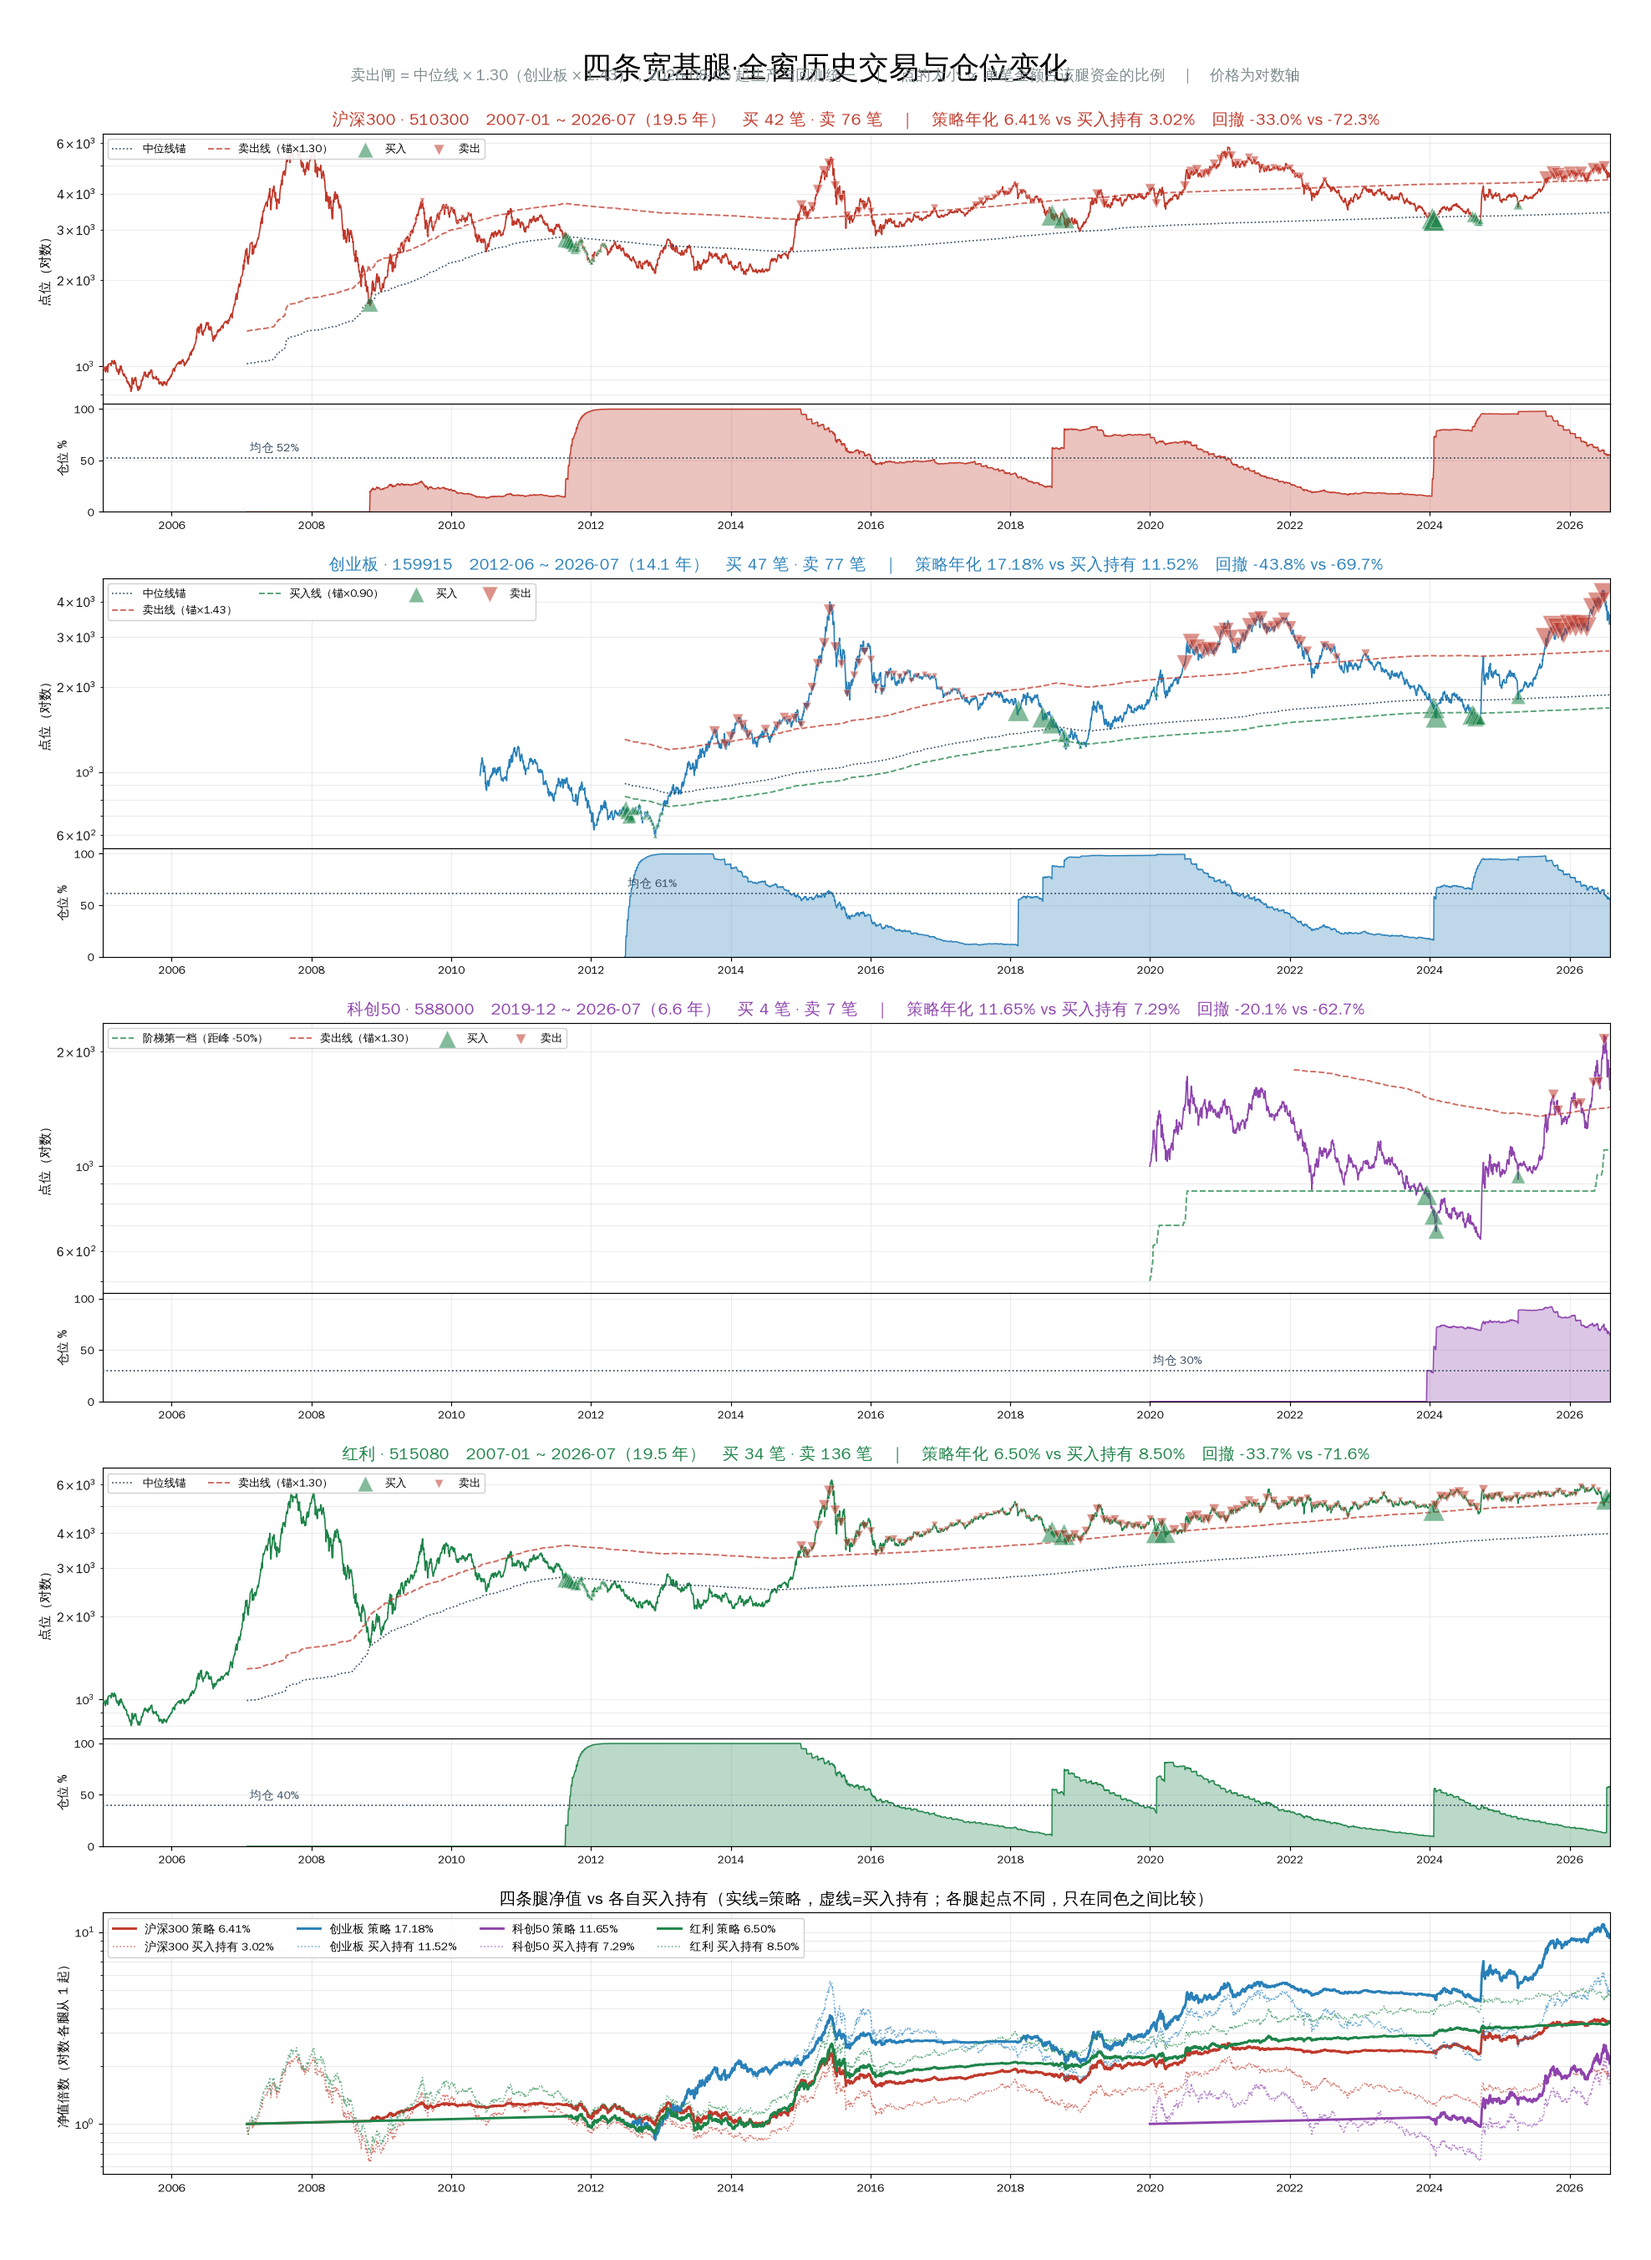
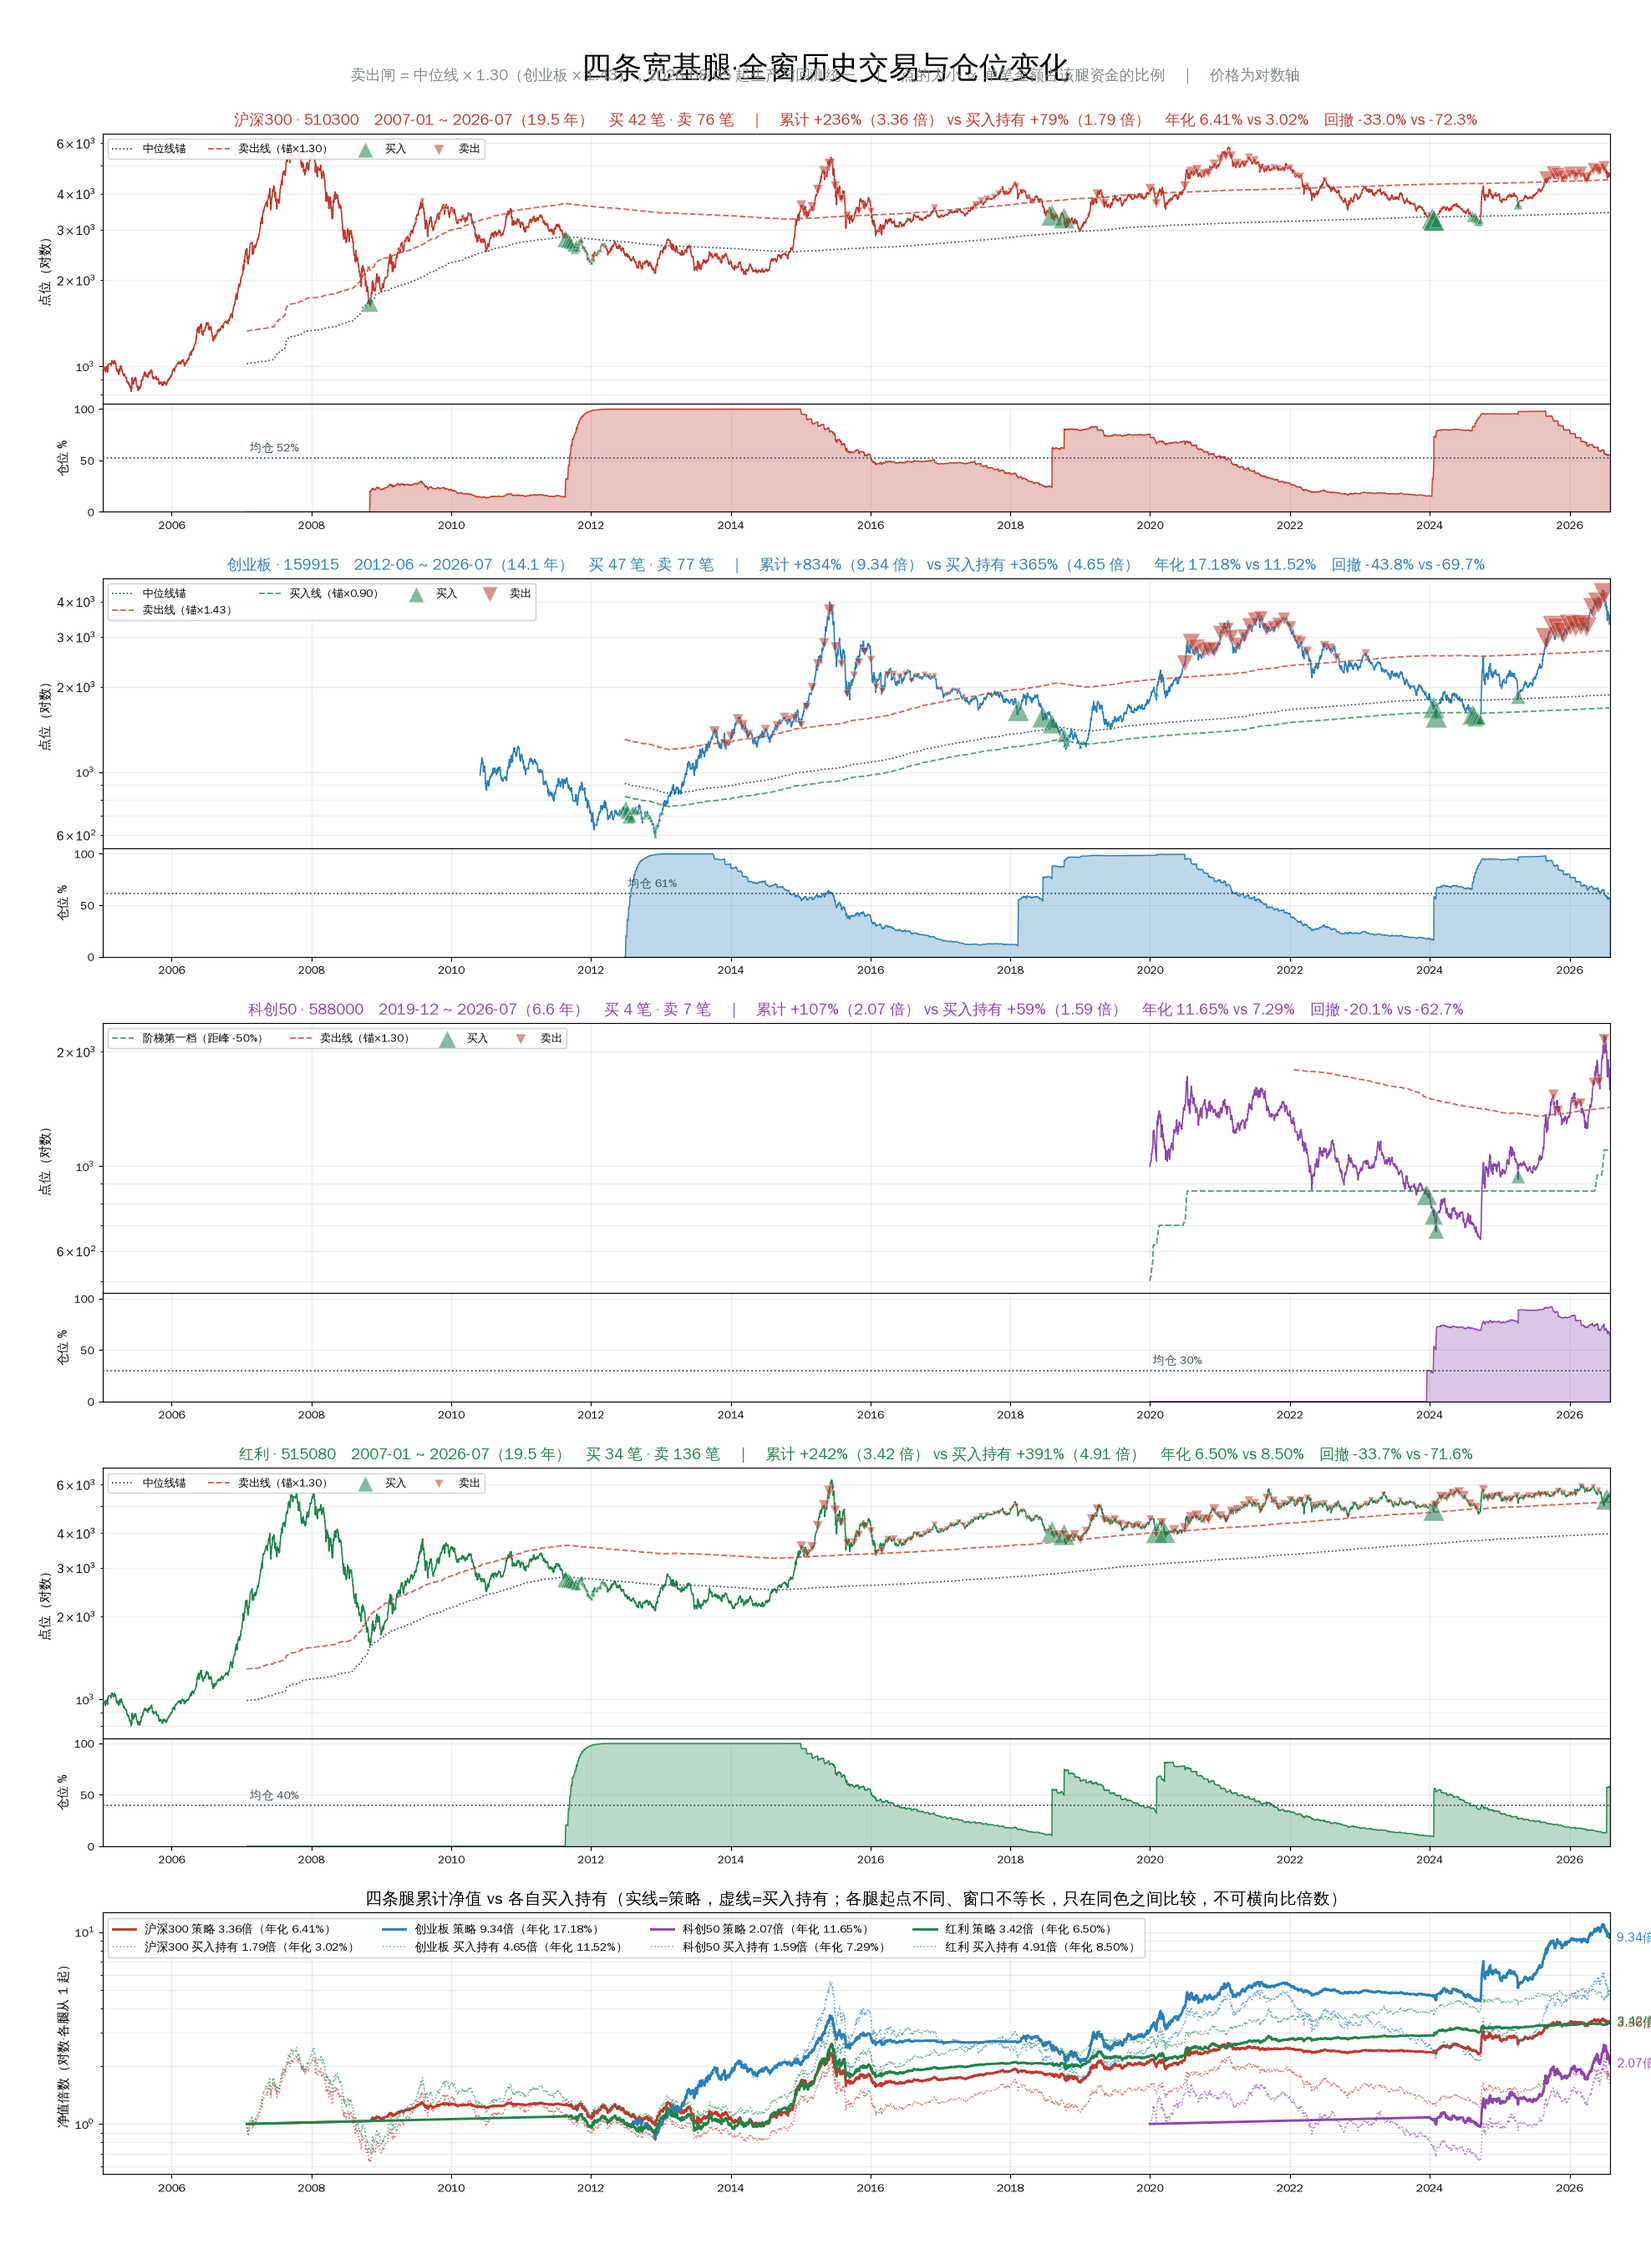
图表: 历史交易图补累计收益（owner 指出只给了年化）
年化 6.41% 和「19.5 年翻了几倍」对拿钱的人不是一回事，此前四腿标题、末格图例
和汇总表全部只有年化，累计收益一个都没有。

- 每腿标题补「累计 +X%（N 倍） vs 买入持有 +Y%（M 倍）」，取净值端点直算，
  不由年化反推
- 末格图例改为「N 倍（年化 X%）」，并在曲线末端标出终值倍数
- 汇总表补策略累计/买持累计两列
- 末格标题补一句「窗口不等长，只在同色之间比较，不可横向比倍数」

Claude-Session: https://claude.ai/code/session_01FN6Uq28z4oa3Sfy64qdYxy

diff --git a/scripts/analysis/broad_history_chart.py b/scripts/analysis/broad_history_chart.py
@@ -106,12 +106,14 @@ def main() -> None:
                        label=f"{side}出" if side == "卖" else "买入")
         ax.set_yscale("log")
         ax.set_ylabel("点位（对数）", fontsize=10.5)
+        cum_s = r["curve"][-1] / r["curve"][0]
+        cum_b = (1 + r["bh"]) ** r["yrs"]
         ax.set_title(f"{nm} · {ETF[nm]}　{r['dates'][0][:4]}-{r['dates'][0][4:6]} ~ "
                      f"{r['dates'][-1][:4]}-{r['dates'][-1][4:6]}（{r['yrs']:.1f} 年）　"
                      f"买 {r['nb']} 笔 · 卖 {r['ns']} 笔　｜　"
-                     f"策略年化 {r['ann']:.2%} vs 买入持有 {r['bh']:.2%}　"
-                     f"回撤 {r['mdd']:.1%} vs {r['bhmdd']:.1%}",
-                     fontsize=13.5, weight="bold", color=COL[nm], pad=7)
+                     f"累计 {cum_s - 1:+.0%}（{cum_s:.2f} 倍） vs 买入持有 {cum_b - 1:+.0%}（{cum_b:.2f} 倍）　"
+                     f"年化 {r['ann']:.2%} vs {r['bh']:.2%}　回撤 {r['mdd']:.1%} vs {r['bhmdd']:.1%}",
+                     fontsize=12.5, weight="bold", color=COL[nm], pad=7)
         ax.grid(alpha=.22, which="both"); ax.tick_params(labelbottom=False, labelsize=9)
         ax.legend(fontsize=9, ncol=4, loc="upper left", framealpha=.9)
         ax.set_xlim(XLO, XHI)
@@ -135,22 +137,25 @@ def main() -> None:
     for nm in data:
         r = res[nm]
         dts = pd.to_datetime(r["dates"])
-        ax.plot(dts, r["curve"] / r["curve"][0], lw=2.0, color=COL[nm],
-                label=f"{nm} 策略 {r['ann']:.2%}")
+        cs = r["curve"] / r["curve"][0]
+        ax.plot(dts, cs, lw=2.0, color=COL[nm],
+                label=f"{nm} 策略 {cs[-1]:.2f}倍（年化 {r['ann']:.2%}）")
+        ax.annotate(f"{cs[-1]:.2f}倍", (dts[-1], cs[-1]), textcoords="offset points",
+                    xytext=(6, 0), fontsize=10, weight="bold", color=COL[nm], va="center")
         df, ret = data[nm]
         s = (ret if ret is not None else df.c).ffill()
         i0 = int(np.searchsorted(df.trade_date.values, r["dates"][0]))
         bh = s.iloc[i0:i0 + len(dts)].to_numpy(dtype=float)
-        ax.plot(dts, bh / bh[0], lw=1.1, color=COL[nm], ls=":", alpha=.65,
-                label=f"{nm} 买入持有 {r['bh']:.2%}")
+        cb = bh / bh[0]
+        ax.plot(dts, cb, lw=1.1, color=COL[nm], ls=":", alpha=.65,
+                label=f"{nm} 买入持有 {cb[-1]:.2f}倍（年化 {r['bh']:.2%}）")
     ax.set_yscale("log"); ax.set_ylabel("净值倍数（对数·各腿从 1 起）", fontsize=10.5)
     ax.grid(alpha=.25, which="both"); ax.tick_params(labelsize=9.5)
     ax.legend(fontsize=9.5, ncol=4, loc="upper left", framealpha=.9)
     ax.set_xlim(XLO, XHI)
     ax.xaxis.set_major_locator(mdates.YearLocator(2))
     ax.xaxis.set_major_formatter(mdates.DateFormatter("%Y"))
-    ax.set_title("四条腿净值 vs 各自买入持有（实线=策略，虚线=买入持有；各腿起点不同，"
-                 "只在同色之间比较）", fontsize=13.5, weight="bold", pad=7)
+    ax.set_title("四条腿累计净值 vs 各自买入持有（实线=策略，虚线=买入持有；各腿起点不同、窗口不等长，只在同色之间比较，不可横向比倍数）", fontsize=13.5, weight="bold", pad=7)
 
     out = outd / "broad_history.png"
     fig.savefig(out, dpi=104)
@@ -159,15 +164,15 @@ def main() -> None:
     print("=" * 104)
     print("成交构成（全窗，各腿一笔钱 100）")
     print("=" * 104)
-    print(f"{'腿':>8s}{'区间':>18s}{'年数':>6s}{'买笔':>5s}{'卖笔':>5s}"
-          f"{'锚买':>6s}{'恐慌':>6s}{'阶梯':>6s}{'年均动手':>9s}{'均仓':>6s}")
+    print(f"{'腿':>8s}{'区间':>18s}{'年数':>6s}{'策略累计':>10s}{'买持累计':>10s}"
+          f"{'策略年化':>9s}{'买持年化':>9s}{'买笔':>5s}{'卖笔':>5s}{'均仓':>6s}")
     for nm in data:
         r = res[nm]
-        tb = [x for x in r["trades"] if x["side"] == "买"]
-        cnt = {k2: sum(1 for x in tb if k2 in x["why"]) for k2 in ("锚", "恐慌", "阶梯")}
+        cum_s = r["curve"][-1] / r["curve"][0]
+        cum_b = (1 + r["bh"]) ** r["yrs"]
         print(f"{nm:>8s}{r['dates'][0]+'~'+r['dates'][-1]:>18s}{r['yrs']:>6.1f}"
-              f"{r['nb']:>5d}{r['ns']:>5d}{cnt['锚']:>6d}{cnt['恐慌']:>6d}{cnt['阶梯']:>6d}"
-              f"{(r['nb']+r['ns'])/r['yrs']:>9.1f}{r['posavg']:>6.0%}")
+              f"{cum_s:>9.2f}倍{cum_b:>9.2f}倍{r['ann']:>9.2%}{r['bh']:>9.2%}"
+              f"{r['nb']:>5d}{r['ns']:>5d}{r['posavg']:>6.0%}")
 
 
 if __name__ == "__main__":
